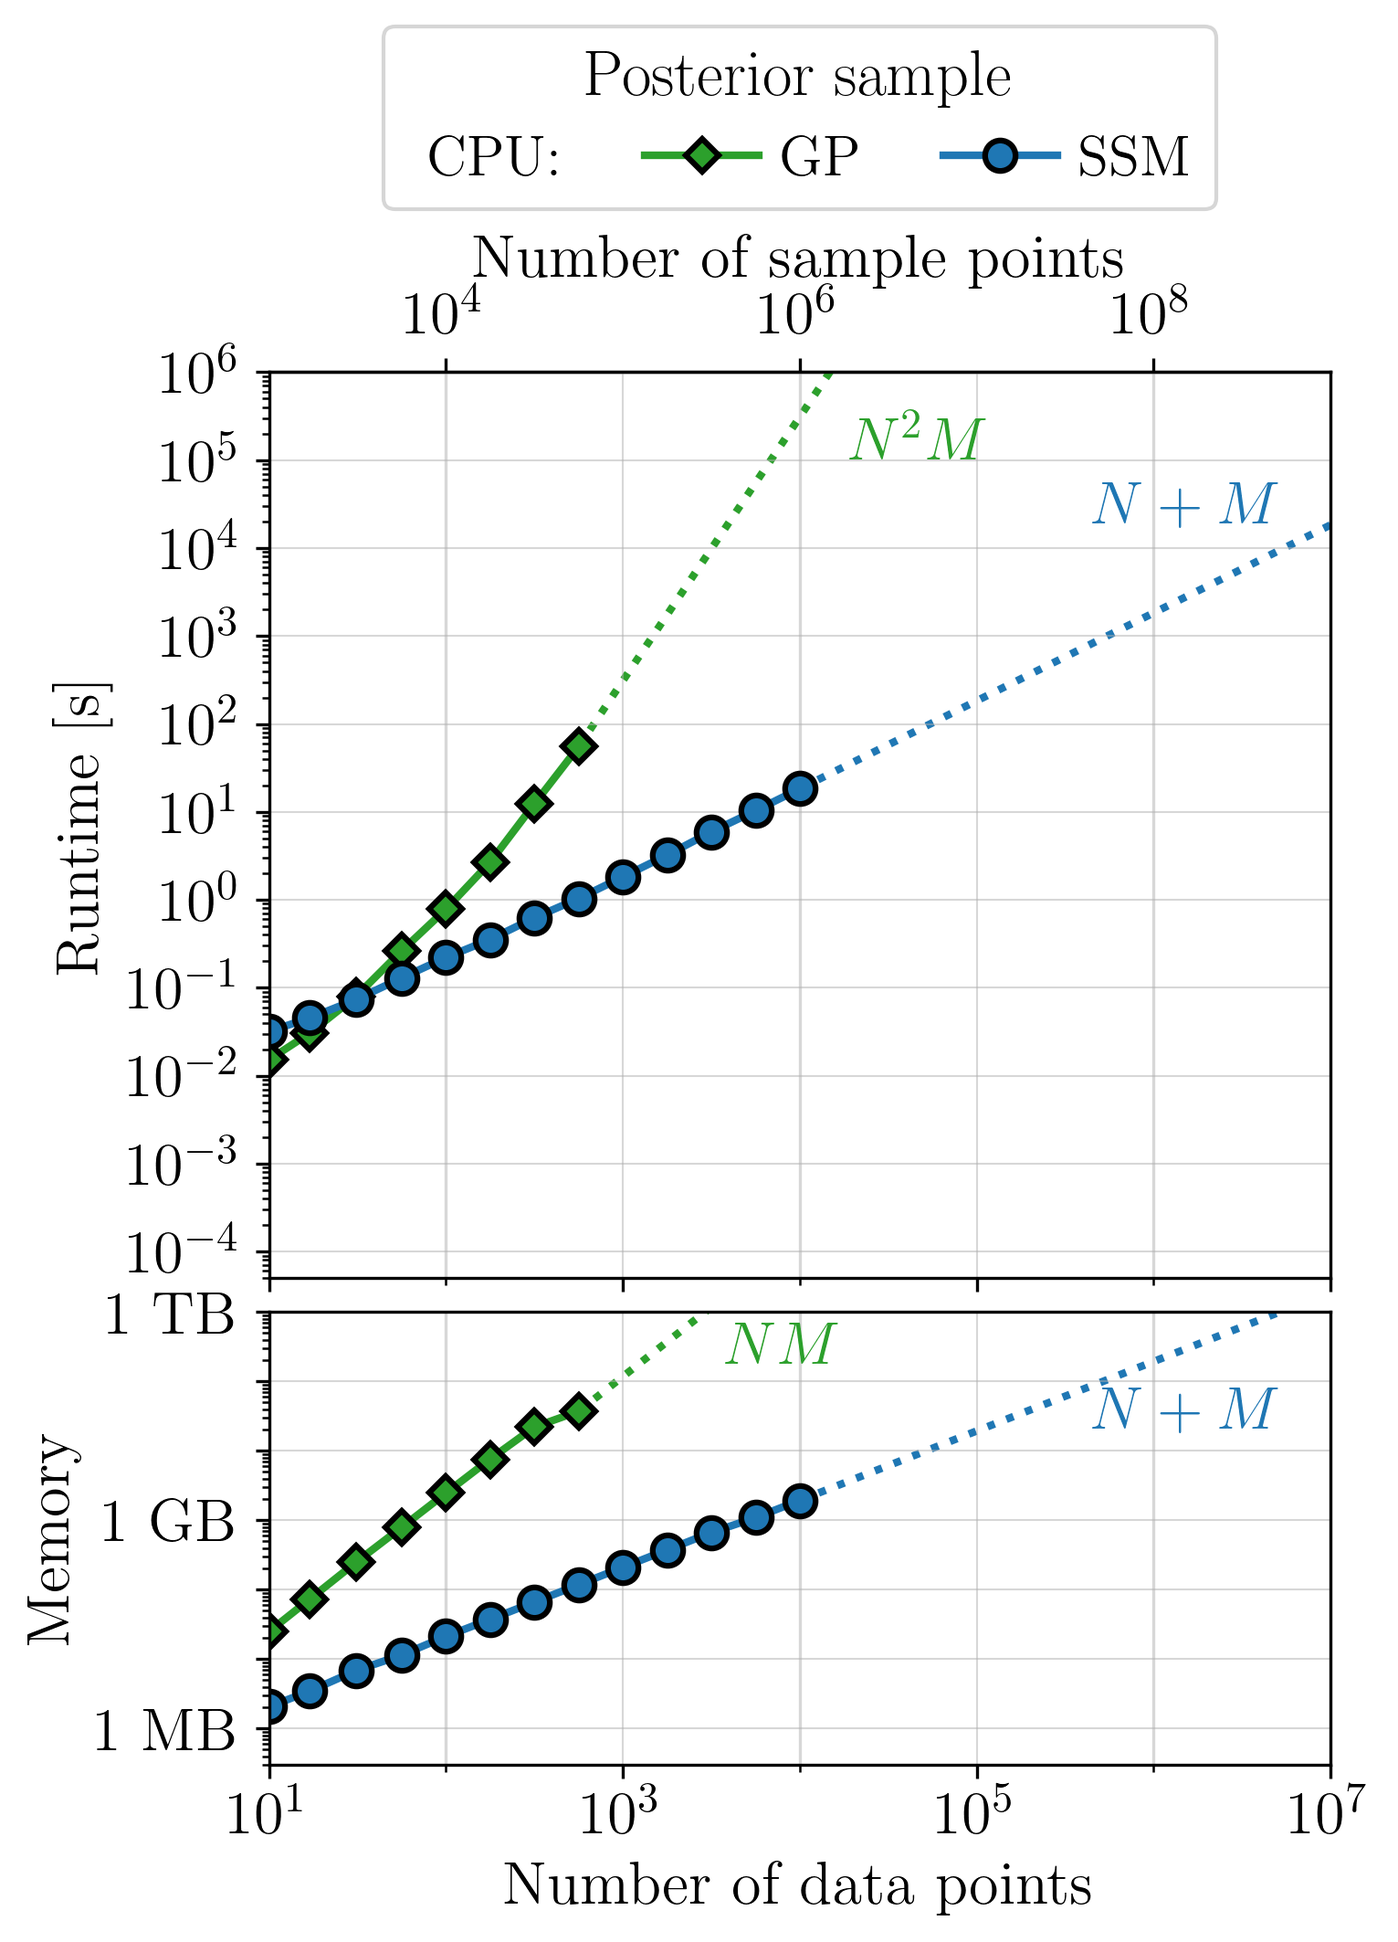
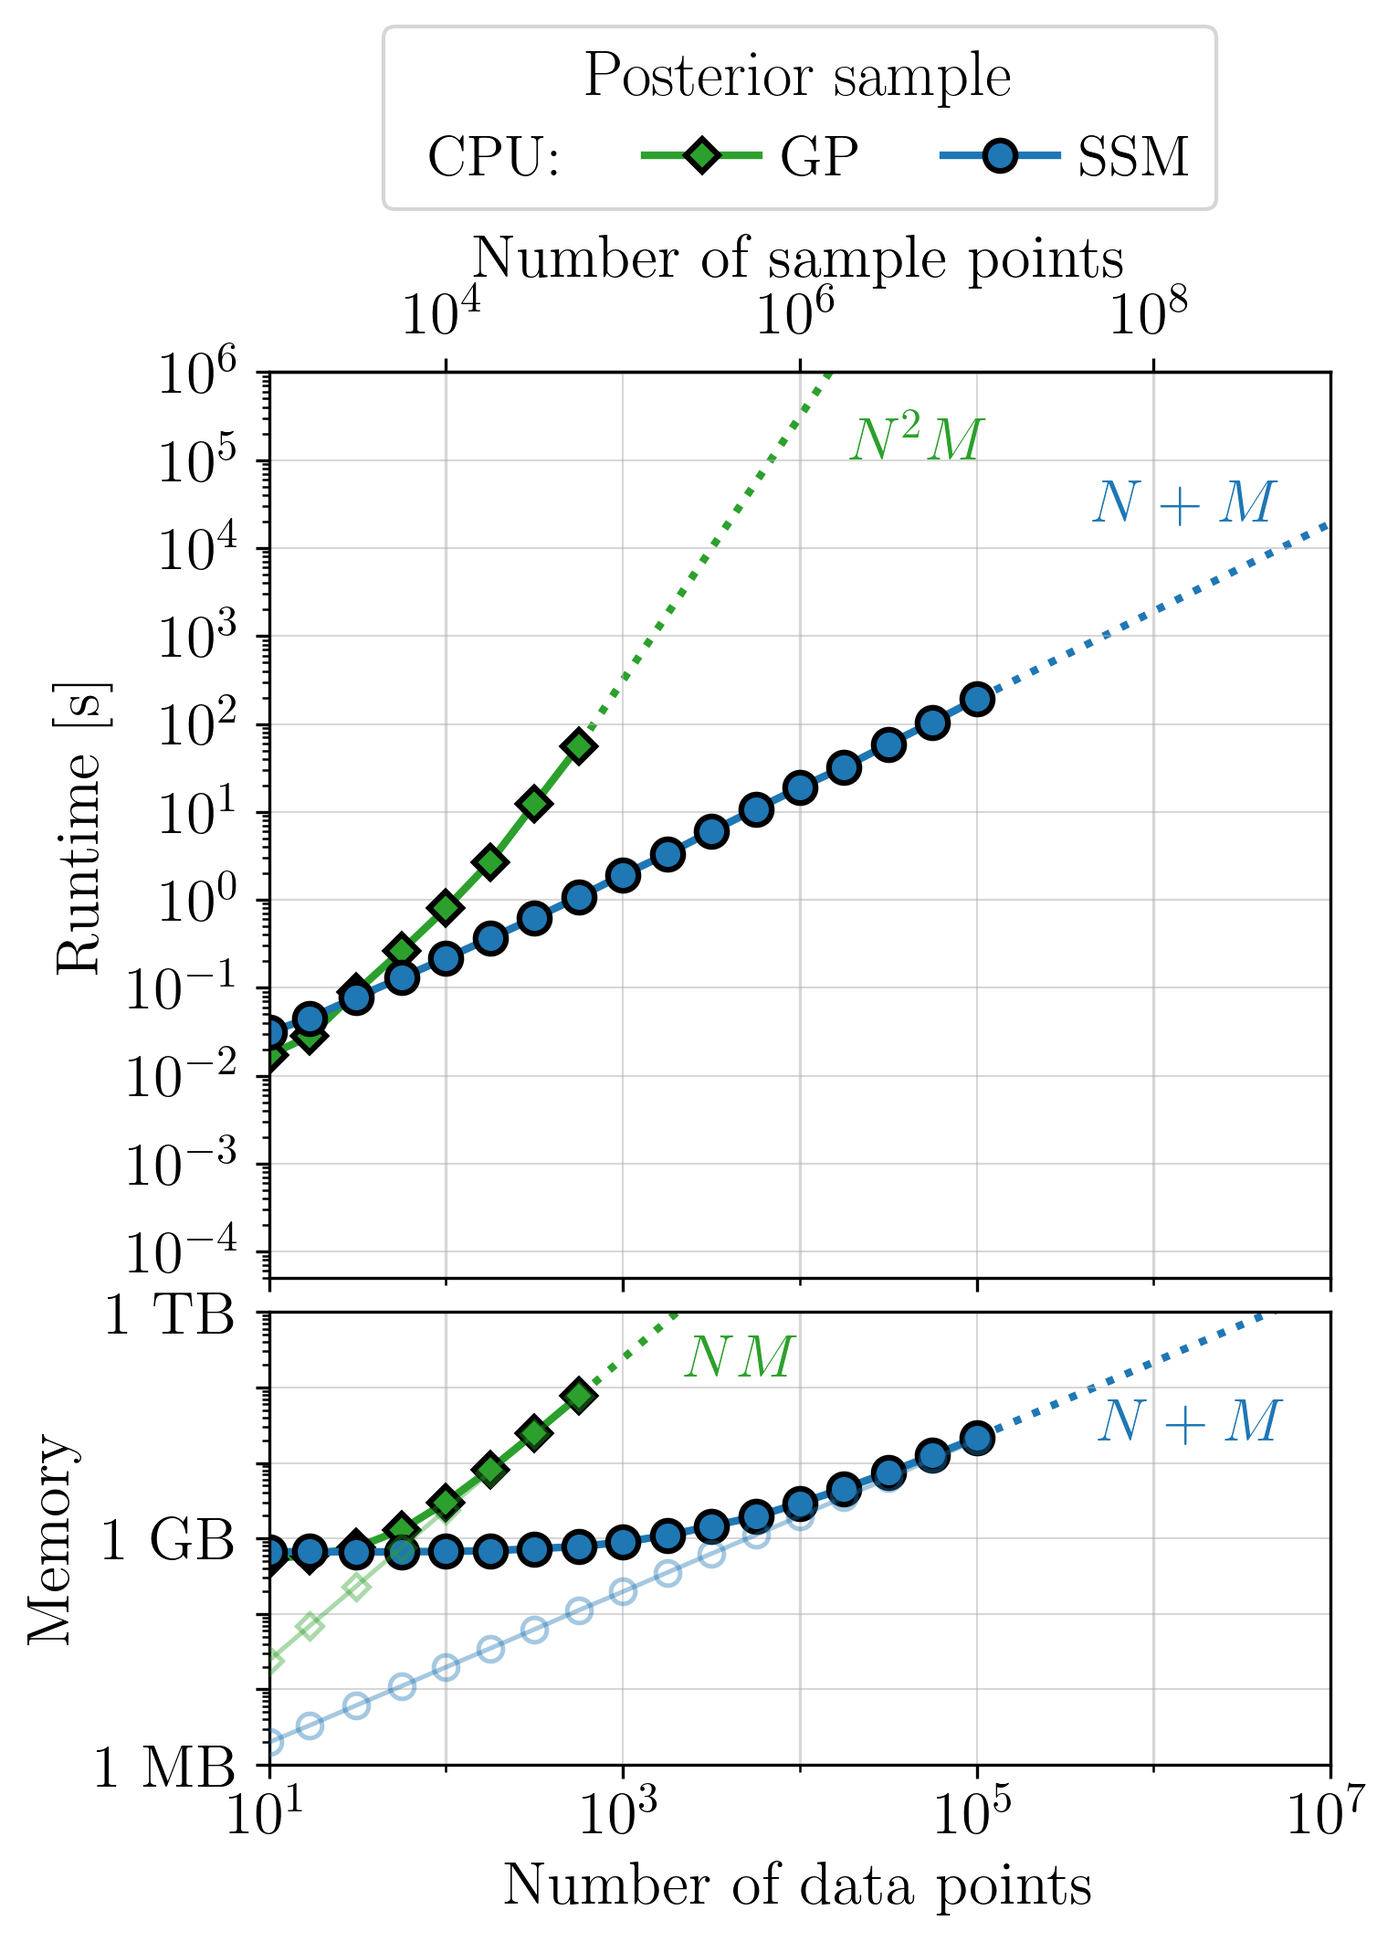
separate overhead and computation in memory profiling, add value_and_grad tests for llh

diff --git a/tests/benchmark/plotting.py b/tests/benchmark/plotting.py
@@ -59,6 +59,9 @@ STATIC_DIR = os.path.join(
     "benchmarks",
 )
 
+# Scratch directory for plots generated by --quick runs 
+SCRATCH_DIR = os.path.join(os.path.dirname(os.path.abspath(__file__)), "scratch_figures")
+
 
 def use_paper_style(usetex: bool = True) -> None:
     """Match the styling of the paper figures.
@@ -546,6 +549,14 @@ THEORY_MEM_INT = {
 #: noise. Points at or under it are replaced by THEORY_MEM where available.
 MEM_FLOOR_BYTES = 2e6
 
+# THEORY_MEM / THEORY_MEM_INT below are used only by the optional `show_theory`
+# diagnostic, which draws the derived laws alongside the measurements so the two
+# can be compared. The figures' substituted points no longer come from them --
+# see extrapolate_below_floor. Several entries have since drifted from what the
+# code does (llh SSM 88 against ~170 B/N measured, cond SSM 184 against ~373,
+# and pred GP 2400 against ~1362, which never agreed), so read a mismatch as a
+# question about the derivation, not as a fault in the measurement.
+
 
 def theory_curve(kind, curve, xs, m_per_n=100, integrated=False):
     """Theoretical bytes for ``curve`` at each x, or None if unknown."""
@@ -554,6 +565,49 @@ def theory_curve(kind, curve, xs, m_per_n=100, integrated=False):
     if fn is None:
         return None
     return fn(np.asarray(xs, dtype=float), m_per_n)
+
+
+def extrapolate_below_floor(Ns, measured, power, floor=MEM_FLOOR_BYTES):
+    """Fill unresolvable memory points by continuing the curve's own measurements.
+
+    Returns ``(values, was_substituted)``. A point is substituted when it was
+    measured but carries no information: non-positive, meaning RSS saw no change
+    at all, or under ``floor``, where what it reports is allocator noise rather
+    than the allocation. NaN is left alone -- that means the point was never run
+    (a size cutoff retired it, or it crashed), and inventing a value there would
+    draw a curve the sweep never measured.
+
+    The curve's exponent is already known -- ``power`` is the same one the
+    panel's dotted continuation uses -- so only the coefficient is unknown, and
+    it is fitted to every point that *is* above the floor::
+
+        log c = mean(log y_i - power * log N_i)
+
+    Fitting over all reliable points, rather than anchoring on the smallest of
+    them, stops one noisy measurement from shifting the whole substituted
+    section; sharing the exponent with the continuation keeps a curve's inward
+    and outward extensions consistent with each other.
+
+    This replaces a table of hardcoded B/N constants. That table was a
+    measurement of one version of the code and went stale silently as soon as the
+    implementation changed -- the split-scan likelihood moved SSM from 88 to
+    ~170 B/N, leaving the substituted points on a line the measured ones no
+    longer joined. Deriving the coefficient from the data makes the figure
+    self-maintaining, and it is the honest thing to draw: these points are an
+    extension of *this* sweep, not of an earlier one.
+    """
+    x = np.asarray(Ns, dtype=float)
+    y = np.array([float(m) for m in measured], dtype=float)
+    n = min(len(x), len(y))
+    x, y = x[:n], y[:n]
+
+    usable = np.isfinite(y) & (y > floor) & (x > 0)
+    bad = np.isfinite(y) & ((y <= 0) | (y < floor))
+    if not usable.any() or not bad.any():
+        return y, np.zeros(n, dtype=bool)
+
+    logc = float(np.mean(np.log(y[usable]) - power * np.log(x[usable])))
+    return np.where(bad, np.exp(logc) * x**power, y), bad
 
 
 def substitute_below_floor(measured, theory, floor=MEM_FLOOR_BYTES):
@@ -673,7 +727,11 @@ SPECS = {
         # Floor set just below the smallest plotted point rather than left to
         # autoscale: the tick list is fixed, so autoscale either clips the
         # leftmost markers or leaves a decade of empty panel.
-        "ylim2": (3e2, 1e12),
+        "ylim2": (1e6, 1e12),
+        # Pinned rather than taken from the data, so an abridged (--quick) run
+        # draws the same axes as the production one and the two figures can be
+        # laid side by side. A no-op for production, whose grid ends at 1e7.
+        "xlim": (10, 1e7),
         "annotations1": [
             ("$N^3$", "GP"),
             ("$N$", "SSM"),
@@ -694,7 +752,11 @@ SPECS = {
         # Floor set just below the smallest plotted point rather than left to
         # autoscale: the tick list is fixed, so autoscale either clips the
         # leftmost markers or leaves a decade of empty panel.
-        "ylim2": (3e2, 1e12),
+        "ylim2": (1e6, 1e12),
+        # Pinned rather than taken from the data, so an abridged (--quick) run
+        # draws the same axes as the production one and the two figures can be
+        # laid side by side. A no-op for production, whose grid ends at 1e7.
+        "xlim": (10, 1e7),
         "annotations1": [
             ("$N^3$", "GP"),
             ("$N$", "SSM"),
@@ -714,10 +776,14 @@ SPECS = {
         # Floor set just below the smallest plotted point rather than left to
         # autoscale: the tick list is fixed, so autoscale either clips the
         # leftmost markers or leaves a decade of empty panel.
-        "ylim2": (3e2, 1e12),
+        "ylim2": (1e6, 1e12),
         # The linear curves run in a tight parallel bundle here, so one "$N$"
         # labels the whole bundle; repeating it per curve only adds clutter.
         # pSSM keeps its own because $\sim$$N/T$ is a different statement.
+        # Pinned rather than taken from the data, so an abridged (--quick) run
+        # draws the same axes as the production one and the two figures can be
+        # laid side by side. A no-op for production, whose grid ends at 1e7.
+        "xlim": (10, 1e7),
         "annotations1": [
             ("$N^3$", "GP"),
             ("$N$", "SSM"),
@@ -736,7 +802,11 @@ SPECS = {
         # Floor set just below the smallest plotted point rather than left to
         # autoscale: the tick list is fixed, so autoscale either clips the
         # leftmost markers or leaves a decade of empty panel.
-        "ylim2": (3e2, 1e12),
+        "ylim2": (1e6, 1e12),
+        # Pinned rather than taken from the data, so an abridged (--quick) run
+        # draws the same axes as the production one and the two figures can be
+        # laid side by side. A no-op for production, whose grid ends at 1e7.
+        "xlim": (10, 1e7),
         "annotations1": [
             ("$N^3$", "GP"),
             ("$N$", "SSM"),
@@ -757,7 +827,7 @@ SPECS = {
         # Floor set just below the smallest plotted point rather than left to
         # autoscale: the tick list is fixed, so autoscale either clips the
         # leftmost markers or leaves a decade of empty panel.
-        "ylim2": (1e5, 1e12),
+        "ylim2": (1e6, 1e12),
         "xlim": (10, 1e7),
         "annotations1": [
             ("$N+M$", "SSM"),
@@ -779,7 +849,7 @@ SPECS = {
         # Floor set just below the smallest plotted point rather than left to
         # autoscale: the tick list is fixed, so autoscale either clips the
         # leftmost markers or leaves a decade of empty panel.
-        "ylim2": (1e5, 1e12),
+        "ylim2": (1e6, 1e12),
         "xlim": (10, 1e7),
         "annotations1": [("$N+M$", "SSM"), ("$N^2M$", "GP")],
         "annotations2": [("$N+M$", "SSM"), ("$NM$", "GP")],
@@ -796,7 +866,11 @@ SPECS = {
         # Prior draws start at M = 10, where GP needs only 16*10^2 = 1.6 KB, so
         # an autoscaled floor lands on top of the leftmost markers and clips
         # them. Pinned a half decade lower to leave them room.
-        "ylim2": (3e2, 1e12),
+        "ylim2": (1e6, 1e12),
+        # Pinned rather than taken from the data, so an abridged (--quick) run
+        # draws the same axes as the production one and the two figures can be
+        # laid side by side. A no-op for production, whose grid ends at 1e7.
+        "xlim": (10, 1e7),
         "annotations1": [
             ("$M$", "SSM"),
             ("$M$", "QSM"),
@@ -813,7 +887,11 @@ SPECS = {
         # Prior draws start at M = 10, where GP needs only 16*10^2 = 1.6 KB, so
         # an autoscaled floor lands on top of the leftmost markers and clips
         # them. Pinned a half decade lower to leave them room.
-        "ylim2": (3e2, 1e12),
+        "ylim2": (1e6, 1e12),
+        # Pinned rather than taken from the data, so an abridged (--quick) run
+        # draws the same axes as the production one and the two figures can be
+        # laid side by side. A no-op for production, whose grid ends at 1e7.
+        "xlim": (10, 1e7),
         "annotations1": [("$M$", "SSM"), ("$M^3$", "GP")],
         "annotations2": [("$M$", "SSM"), ("$M^2$", "GP")],
     },
@@ -827,7 +905,7 @@ SPECS = {
         # Floor set just below the smallest plotted point rather than left to
         # autoscale: the tick list is fixed, so autoscale either clips the
         # leftmost markers or leaves a decade of empty panel.
-        "ylim2": (3e5, 1e12),
+        "ylim2": (1e6, 1e12),
         "xlim": (10, 1e7),
         "annotations1": [
             ("$N+M$", "SSM"),
@@ -845,7 +923,7 @@ SPECS = {
         # Floor set just below the smallest plotted point rather than left to
         # autoscale: the tick list is fixed, so autoscale either clips the
         # leftmost markers or leaves a decade of empty panel.
-        "ylim2": (3e5, 1e12),
+        "ylim2": (1e6, 1e12),
         "xlim": (10, 1e7),
         "annotations1": [("$N+M$", "SSM"), ("$N^2M$", "GP")],
         "annotations2": [("$N+M$", "SSM"), ("$NM$", "GP")],
@@ -858,6 +936,10 @@ def make_benchmark_figure(
     cpu_data,
     gpu_data=None,
     integrated=False,
+    tag="",
+    suffix="",
+    title_suffix="",
+    scratch=False,
     savefig=None,
     annotate=True,
     substitute_theory=True,
@@ -872,6 +954,16 @@ def make_benchmark_figure(
             in. Curves absent from it are simply omitted, so a figure can be
             regenerated before the GPU run exists.
         integrated: select the integrated variant of the spec.
+        title_suffix: appended to the legend title, so a variant sweep's figure
+            says what it measured rather than looking like the standard one.
+        scratch: write into :data:`SCRATCH_DIR` instead of the published
+            :data:`STATIC_DIR`. Set for abridged runs.
+        tag: inserted before ``_benchmark`` in the filename, naming a variant
+            *family* of results, e.g. ``"_value_and_grad"``.
+        suffix: appended after ``_benchmark``, marking how a run was made rather
+            than what it measured, e.g. ``"_quick"``. Keeps an
+            abridged run's figure from overwriting the production one, which
+            shares every other part of the name.
         substitute_theory: replace memory points that fall below the
             measurement floor with THEORY_MEM, drawn as hollow markers so
             they stay distinguishable from measured ones.
@@ -899,21 +991,71 @@ def make_benchmark_figure(
     Ns = Ns[: len(next(iter(runtime.values())))]
 
     if savefig is True:
+        outdir = SCRATCH_DIR if scratch else STATIC_DIR
+        os.makedirs(outdir, exist_ok=True)
         savefig = os.path.join(
-            STATIC_DIR, f"{kind}{'_int' if integrated else ''}_benchmark.png"
+            outdir,
+            f"{kind}{'_int' if integrated else ''}{tag}_benchmark{suffix}.png",
         )
 
     # Swap unresolvable memory measurements for theory *before* anything is
     # drawn, so the substituted points can be given hollow markers instead of
     # ending up with a filled one underneath.
     m_per_n = spec.get("m_per_n", 100)
+
+    # XLA's buffer accounting, slot [3] of each memory entry: the computation's
+    # working set, measured and exact at every size. Extracted *before* the
+    # substitution below, which rewrites entries as 2-tuples and would discard
+    # it. Curves that have it need no theoretical stand-in -- the faded curve
+    # says the same thing from measurement -- so they are excluded from the
+    # substitution rather than getting both.
+    # The solid curve answers "how much must be free to run this", so it uses
+    # the absolute peak -- interpreter and runtime included -- wherever that has
+    # been measured. Points predating that column fall back to the historical
+    # peak-above-baseline, which is the same quantity minus a constant, so a
+    # partially filled sweep degrades gracefully rather than mixing scales
+    # invisibly: the fallback is always the smaller number.
+    for name in list(memory):
+        memory[name] = [
+            ((p[2], p[1]) + tuple(p[2:]) if len(p) > 2 and p[2] == p[2]
+             else tuple(p))
+            for p in memory[name]
+        ]
+
+    mem_xla = {}
+    for name in list(memory):
+        vals = np.array(
+            [p[3] if len(p) > 3 else np.nan for p in memory[name]], dtype=float
+        )
+        if np.isfinite(vals).any():
+            mem_xla[name] = vals
+
+    # Where the faded curve carries the small-N end, the solid one should stop
+    # rather than be propped up: a sub-floor RSS reading is noise, and a zero
+    # plotted on a log axis drops the line off the bottom of the panel. Masking
+    # to NaN leaves a gap, so the solid curve simply begins where the
+    # measurement becomes meaningful.
+    for name in mem_xla:
+        memory[name] = [
+            ((np.nan, np.nan) + tuple(p[2:]) if not (p[0] > MEM_FLOOR_BYTES)
+             else tuple(p))
+            for p in memory[name]
+        ]
+
     mem_hollow = {}
     if substitute_theory:
         for name in list(memory):
-            th = theory_curve(kind, name, Ns, m_per_n, integrated)
-            if th is None:
+            if name in mem_xla:
                 continue
-            vals, sub = substitute_below_floor([p[0] for p in memory[name]], th)
+            # Extrapolated from this sweep's own measurements, with the same
+            # exponent the panel's dotted continuation uses -- not from a table
+            # of constants, which goes stale silently when the code changes.
+            # Every curve can be extended this way, so unlike the table there is
+            # no curve that quietly gets no substitution at all.
+            power = spec.get("powers2", {}).get(name, 1)
+            vals, sub = extrapolate_below_floor(
+                Ns, [p[0] for p in memory[name]], power
+            )
             if sub.any():
                 memory[name] = [(v, 0.0) for v in vals]
                 mem_hollow[name] = sub
@@ -967,6 +1109,28 @@ def make_benchmark_figure(
             markeredgewidth=1.5,
             zorder=4,
         )
+    # The computation alone, faded: solid markers and line are the total a user
+    # must have free; the faded pair is what the arrays themselves need. The gap
+    # between them is the runtime overhead, which is the point of showing both.
+    for name, vals in mem_xla.items():
+        ok = np.isfinite(vals)
+        if not ok.any():
+            continue
+        ax2.plot(
+            np.asarray(Ns)[ok],
+            vals[ok],
+            ls="-",
+            lw=1.2,
+            color=colors[name],
+            alpha=0.4,
+            marker=markers[name],
+            markersize=markersize[name] * 0.8,
+            markerfacecolor="none",
+            markeredgecolor=colors[name],
+            markeredgewidth=1.2,
+            zorder=3,
+        )
+
     if show_theory:
         for name in memory:
             th = theory_curve(kind, name, Ns, m_per_n, integrated)
@@ -1002,7 +1166,7 @@ def make_benchmark_figure(
     paired_legend(
         ax1,
         present,
-        title=spec["title"],
+        title=spec["title"] + title_suffix,
         # Clear the secondary top axis and its label where there is one.
         y=1.18 if "secondary_axis" in spec else 1.02,
     )

diff --git a/docs/benchmarks.md b/docs/benchmarks.md
@@ -5,7 +5,7 @@
 This page summarizes the key plots from Section 4 in [Rubenzahl et al. 2026](https://ui.adsabs.harvard.edu/abs/2026arXiv260102527R/abstract), which benchmark the performance of `smolgp` on CPU (blue curves) and GPU (purple curves). We compare to the performance of the full (dense) GP solution, as implemented in `tinygp` (green curves), as well as the `tinygp` quasiseprable implementation on CPU (orange) and GPU (red).
 
 Each set of plots benchmark the runtime and memory usage for computing the
-1. likelihood
+1. likelihood (value only and [value + gradient](https://docs.jax.dev/en/latest/_autosummary/jax.value_and_grad.html))
 2. conditioned mean and variance at the data points
 3. predicted mean and variance at some test points,
 4. drawing samples from the prior, and
@@ -18,7 +18,7 @@ Note that both predicting (#3) and sampling the posterior (#5) at test points sc
 CPU benchmarks were run on an Intel&reg; Xeon&reg; w53435X with 512 GB RAM.
 GPU benchmarks were run on an NVIDIA RTX 6000 Ada with 48 GB of GPU memory, running CUDA v12.8. The functions used for timing and memory profiling are located in [`tests/benchmark`](https://github.com/smolgp-dev/smolgp/tree/main/tests/benchmark). 
 
-Runs where the peak memory usage was too low to be reliably measured above the baseline noise are drawn as open circles computed from the theoretical memory usage given the measured scaling. As such, these regions are likely overhead-limited.
+For memory profiling, solid curves show the total peak memory the process actually used (i.e., including overhead like interpreter, JIT, etc.). The faded curves with open markers show just the memory used in the computation, taken from the XLA buffer. 
 :::
 
 ## Instantaneous measurements
@@ -32,6 +32,10 @@ For instantaneous measurements, and certain kernels[^1], optimized quasiseparabl
 
 :::{grid-item}
 :::{image} _static/benchmarks/llh_benchmark.png
+:::
+
+:::{grid-item}
+:::{image} _static/benchmarks/llh_value_and_grad_benchmark.png
 :::
 
 :::{grid-item}
@@ -63,6 +67,10 @@ Note that sampling integrated exposures incurs an additional scaling penalty if 
 
 :::{grid-item}
 :::{image} _static/benchmarks/llh_int_benchmark.png
+:::
+
+:::{grid-item}
+:::{image} _static/benchmarks/llh_int_value_and_grad_benchmark.png
 :::
 
 :::{grid-item}
